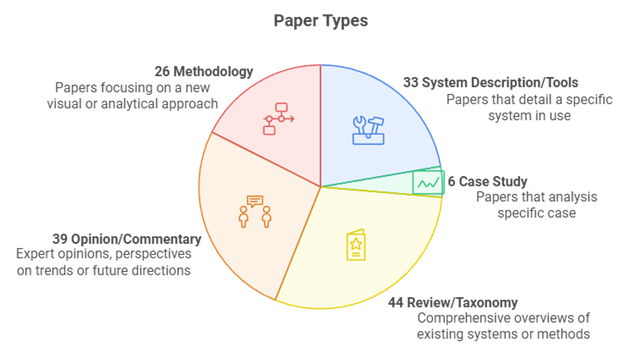
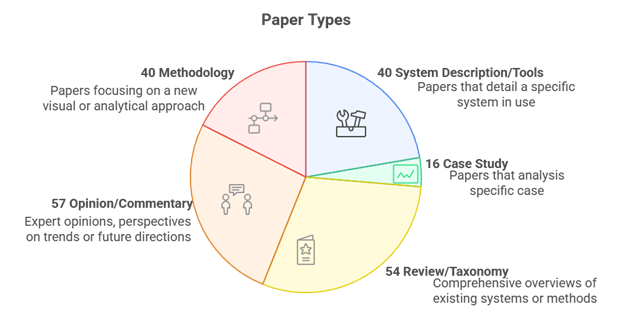
Updated Figures

Changed region(s): [[0.0304, 0.1553, 0.9744, 0.9627], [0.3958, 0.0311, 0.609, 0.0932], [0.5481, 0.6211, 0.609, 0.7453]]

diff --git a/index.html b/index.html
@@ -104,14 +104,14 @@ activity, while the majority offer low to moderate interactivity, comprising
     <div id="data-purpose" class="subsection">
       <table>
         <thead>
-          <tr><th>Category</th><th>Percentage</th></tr>
+          <tr><th>Category</th><th>Percentage</th><th>Paper Count</th></tr>
         </thead>
         <tbody>
-          <tr><td>Detection</td><td>33%</td></tr>
-          <tr><td>Prediction/Forecasting</td><td>6%</td></tr>
-          <tr><td>Planning</td><td>38%</td></tr>
-          <tr><td>Mitigation/Response</td><td>18%</td></tr>
-          <tr><td>Monitoring</td><td>56%</td></tr>
+          <tr><td>Detection</td><td>33%</td><td>30</td></tr>
+          <tr><td>Prediction/Forecasting</td><td>6%</td><td>4</td></tr>
+          <tr><td>Planning</td><td>38%</td><td>33</td></tr>
+          <tr><td>Mitigation/Response</td><td>18%</td><td>13</td></tr>
+          <tr><td>Monitoring</td><td>56%</td><td>71</td></tr>
         </tbody>
       </table>
     </div>
@@ -144,15 +144,15 @@ activity, while the majority offer low to moderate interactivity, comprising
     <div id="data-diseases" class="subsection">
       <table>
         <thead>
-          <tr><th>Category</th><th>Percentage</th></tr>
+          <tr><th>Category</th><th>Percentage</th><th>Paper Count</th></tr>
         </thead>
         <tbody>
-          <tr><td>Emerging and Re-Emerging Diseases</td><td>52%</td></tr>
-          <tr><td>Zoonotic Diseases</td><td>37%</td></tr>
-          <tr><td>Vector-borne Diseases</td><td>15%</td></tr>
-          <tr><td>Neglected Tropical Diseases</td><td>10%</td></tr>
-          <tr><td>Food Safety and Waterborne Diseases</td><td>7%</td></tr>
-          <tr><td>Antimicrobial Resistance</td><td>11%</td></tr>
+          <tr><td>Emerging and Re-Emerging Diseases</td><td>52%</td><td>107</td></tr>
+          <tr><td>Zoonotic Diseases</td><td>37%</td><td>76</td></tr>
+          <tr><td>Vector-borne Diseases</td><td>15%</td><td>31</td></tr>
+          <tr><td>Neglected Tropical Diseases</td><td>10%</td><td>20</td></tr>
+          <tr><td>Food Safety and Waterborne Diseases</td><td>7%</td><td>14</td></tr>
+          <tr><td>Antimicrobial Resistance</td><td>11%</td><td>23</td></tr>
         </tbody>
       </table>
     </div>
@@ -185,16 +185,16 @@ activity, while the majority offer low to moderate interactivity, comprising
     <div id="data-datasets" class="subsection">
       <table>
         <thead>
-          <tr><th>Category</th><th>Percentage</th></tr>
+          <tr><th>Category</th><th>Percentage</th><th>Paper Count</th></tr>
         </thead>
         <tbody>
-          <tr><td>Human Datasets</td><td>20%</td></tr>
-          <tr><td>Animal Datasets</td><td>12%</td></tr>
-          <tr><td>Environmental Datasets</td><td>10%</td></tr>
-          <tr><td>Human & Animal Datasets</td><td>30%</td></tr>
-          <tr><td>Human & Environmental Datasets</td><td>12%</td></tr>
-          <tr><td>Animal & Environmental Datasets</td><td>1%</td></tr>
-          <tr><td>Human & Environmental & Animal Datasets</td><td>15%</td></tr>
+          <tr><td>Human Datasets</td><td>20%</td><td>20</td></tr>
+          <tr><td>Animal Datasets</td><td>12%</td><td>11</td></tr>
+          <tr><td>Environmental Datasets</td><td>10%</td><td>9</td></tr>
+          <tr><td>Human & Animal Datasets</td><td>30%</td><td>41</td></tr>
+          <tr><td>Human & Environmental Datasets</td><td>12%</td><td>13</td></tr>
+          <tr><td>Animal & Environmental Datasets</td><td>1%</td><td>3</td></tr>
+          <tr><td>Human & Environmental & Animal Datasets</td><td>15%</td><td>22</td></tr>
         </tbody>
       </table>
     </div>
@@ -225,14 +225,14 @@ activity, while the majority offer low to moderate interactivity, comprising
     <div id="data-users" class="subsection">
       <table>
         <thead>
-          <tr><th>Category</th><th>Percentage</th></tr>
+          <tr><th>Category</th><th>Percentage</th><th>Paper Count</th></tr>
         </thead>
         <tbody>
-          <tr><td>Public Health Officials</td><td>53%</td></tr>
-          <tr><td>General Public</td><td>27%</td></tr>
-          <tr><td>Researchers</td><td>32%</td></tr>
-          <tr><td>Policymakers</td><td>32%</td></tr>
-          <tr><td>Veterinarians</td><td>13%</td></tr>
+          <tr><td>Public Health Officials</td><td>53%</td><td>110</td></tr>
+          <tr><td>General Public</td><td>27%</td><td>67</td></tr>
+          <tr><td>Researchers</td><td>32%</td><td>27</td></tr>
+          <tr><td>Policymakers</td><td>32%</td><td>66</td></tr>
+          <tr><td>Veterinarians</td><td>13%</td><td>56</td></tr>
         </tbody>
       </table>
     </div>
@@ -263,14 +263,14 @@ activity, while the majority offer low to moderate interactivity, comprising
     <div id="data-tasks" class="subsection">
       <table>
         <thead>
-          <tr><th>Category</th><th>Percentage</th></tr>
+          <tr><th>Category</th><th>Percentage</th><th>Paper Count</th></tr>
         </thead>
         <tbody>
-          <tr><td>Analysis</td><td>84%</td></tr>
-          <tr><td>Data Collection</td><td>30%</td></tr>
-          <tr><td>Exploration</td><td>22%</td></tr>
-          <tr><td>Decision Making</td><td>21%</td></tr>
-          <tr><td>Collaboration</td><td>18%</td></tr>
+          <tr><td>Analysis</td><td>84%</td><td>63</td></tr>
+          <tr><td>Data Collection</td><td>30%</td><td>173</td></tr>
+          <tr><td>Exploration</td><td>22%</td><td>45</td></tr>
+          <tr><td>Decision Making</td><td>21%</td><td>43</td></tr>
+          <tr><td>Collaboration</td><td>18%</td><td>40</td></tr>
         </tbody>
       </table>
     </div>
@@ -301,15 +301,15 @@ activity, while the majority offer low to moderate interactivity, comprising
     <div id="data-visual" class="subsection">
       <table>
         <thead>
-          <tr><th>Category</th><th>Percentage</th></tr>
+          <tr><th>Category</th><th>Percentage</th><th>Paper Count</th></tr>
         </thead>
         <tbody>
-          <tr><td>Graphs/Charts</td><td>64%</td></tr>
-          <tr><td>Geospatial Maps</td><td>33%</td></tr>
-          <tr><td>Network Graphs</td><td>10%</td></tr>
-          <tr><td>Dashboards</td><td>20%</td></tr>
-          <tr><td>Heirarchical Charts</td><td>4%</td></tr>
-          <tr><td>Other Visual Representations</td><td>96%</td></tr>
+          <tr><td>Graphs/Charts</td><td>64%</td><td>133</td></tr>
+          <tr><td>Geospatial Maps</td><td>33%</td><td>68</td></tr>
+          <tr><td>Network Graphs</td><td>10%</td><td>20</td></tr>
+          <tr><td>Dashboards</td><td>20%</td><td>40</td></tr>
+          <tr><td>Heirarchical Charts</td><td>4%</td><td>9</td></tr>
+          <tr><td>Other Visual Representations</td><td>96%</td><td>198</td></tr>
         </tbody>
       </table>
     </div>
@@ -340,14 +340,14 @@ activity, while the majority offer low to moderate interactivity, comprising
     <div id="data-analytics" class="subsection">
       <table>
         <thead>
-          <tr><th>Category</th><th>Percentage</th></tr>
+          <tr><th>Category</th><th>Percentage</th><th>Paper Count</th></tr>
         </thead>
         <tbody>
-          <tr><td>Statistical and Analytical Methods</td><td>35%</td></tr>
-          <tr><td>Spatial/Geospatial Analysis</td><td>32%</td></tr>
-          <tr><td>Data Integration and Processing</td><td>7%</td></tr>
-          <tr><td>Machine Learning and AI</td><td>16%</td></tr>
-          <tr><td>Additional Techniques</td><td>10%</td></tr>
+          <tr><td>Statistical and Analytical Methods</td><td>35%</td><td>50</td></tr>
+          <tr><td>Spatial/Geospatial Analysis</td><td>32%</td><td>48</td></tr>
+          <tr><td>Data Integration and Processing</td><td>7%</td><td>15</td></tr>
+          <tr><td>Machine Learning and AI</td><td>16%</td><td>34</td></tr>
+          <tr><td>Additional Techniques</td><td>10%</td><td>20</td></tr>
         </tbody>
       </table>
     </div>
@@ -378,12 +378,12 @@ activity, while the majority offer low to moderate interactivity, comprising
     <div id="data-interactive" class="subsection">
       <table>
         <thead>
-          <tr><th>Category</th><th>Percentage</th></tr>
+          <tr><th>Category</th><th>Percentage</th><th>Paper Count</th></tr>
         </thead>
         <tbody>
-          <tr><td>Low Activity</td><td>45%</td></tr>
-          <tr><td>Moderate Activity</td><td>40%</td></tr>
-          <tr><td>High Activity</td><td>15%</td></tr>
+          <tr><td>Low Activity</td><td>45%</td><td>18</td></tr>
+          <tr><td>Moderate Activity</td><td>40%</td><td>16</td></tr>
+          <tr><td>High Activity</td><td>15%</td><td>6</td></tr>
         </tbody>
       </table>
     </div>
@@ -413,14 +413,14 @@ activity, while the majority offer low to moderate interactivity, comprising
     <div id="data-paper" class="subsection">
       <table>
         <thead>
-          <tr><th>Category</th><th>Percentage</th></tr>
+          <tr><th>Category</th><th>Percentage</th><th>Paper Count</th></tr>
         </thead>
         <tbody>
-          <tr><td>Review/Taxonomy</td><td>25%</td></tr>
-          <tr><td>System Description/Tools</td><td>20%</td></tr>
-          <tr><td>Opinion/Commentary</td><td>28%</td></tr>
-          <tr><td>Case Study</td><td>7%</td></tr>
-          <tr><td>Methodology</td><td>20%</td></tr>
+          <tr><td>Review/Taxonomy</td><td>25%</td><td>40</td></tr>
+          <tr><td>System Description/Tools</td><td>20%</td><td>16</td></tr>
+          <tr><td>Opinion/Commentary</td><td>28%</td><td>54</td></tr>
+          <tr><td>Case Study</td><td>7%</td><td>57</td></tr>
+          <tr><td>Methodology</td><td>20%</td><td>40</td></tr>
         </tbody>
       </table>
     </div>
@@ -451,11 +451,11 @@ activity, while the majority offer low to moderate interactivity, comprising
     <div id="data-system" class="subsection">
       <table>
         <thead>
-          <tr><th>Category</th><th>Percentage</th></tr>
+          <tr><th>Category</th><th>Percentage</th><th>Paper Count</th></tr>
         </thead>
         <tbody>
-          <tr><td>Systems</td><td>80%</td></tr>
-          <tr><td>Dashboards</td><td>20%</td></tr>
+          <tr><td>Systems</td><td>80%</td><td>167</td></tr>
+          <tr><td>Dashboards</td><td>20%</td><td>40</td></tr>
         </tbody>
       </table>
     </div>
